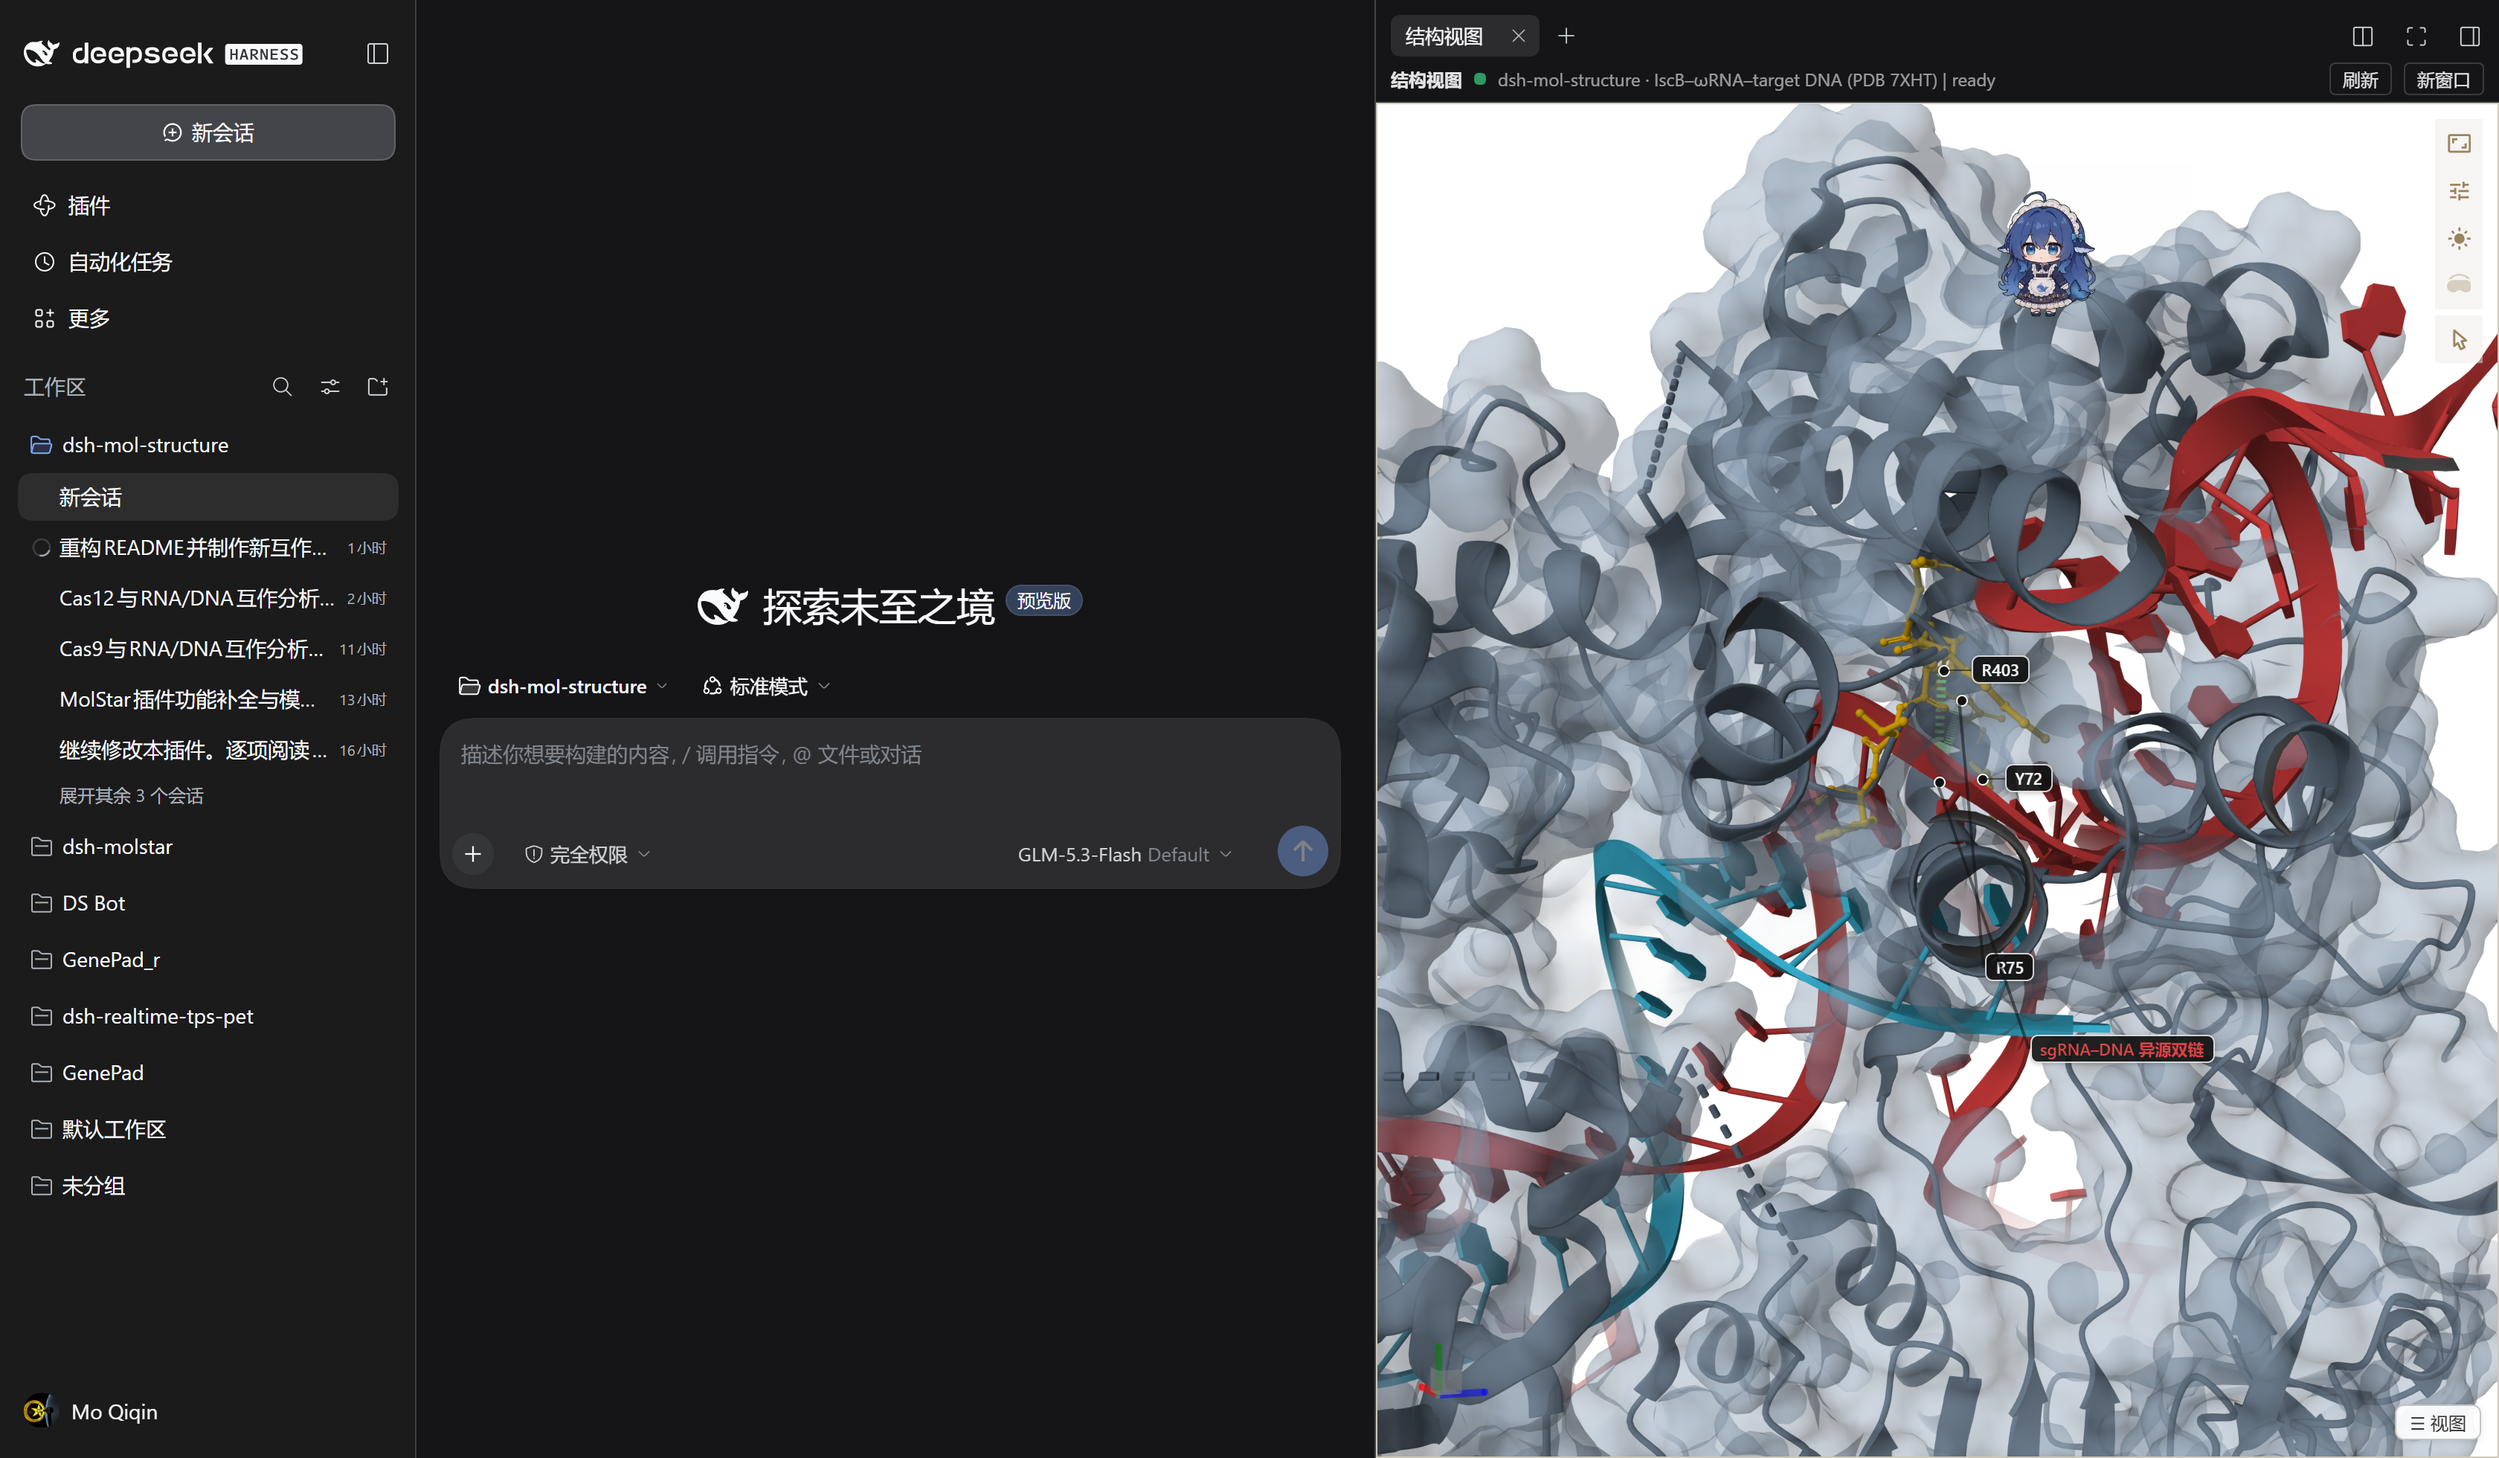
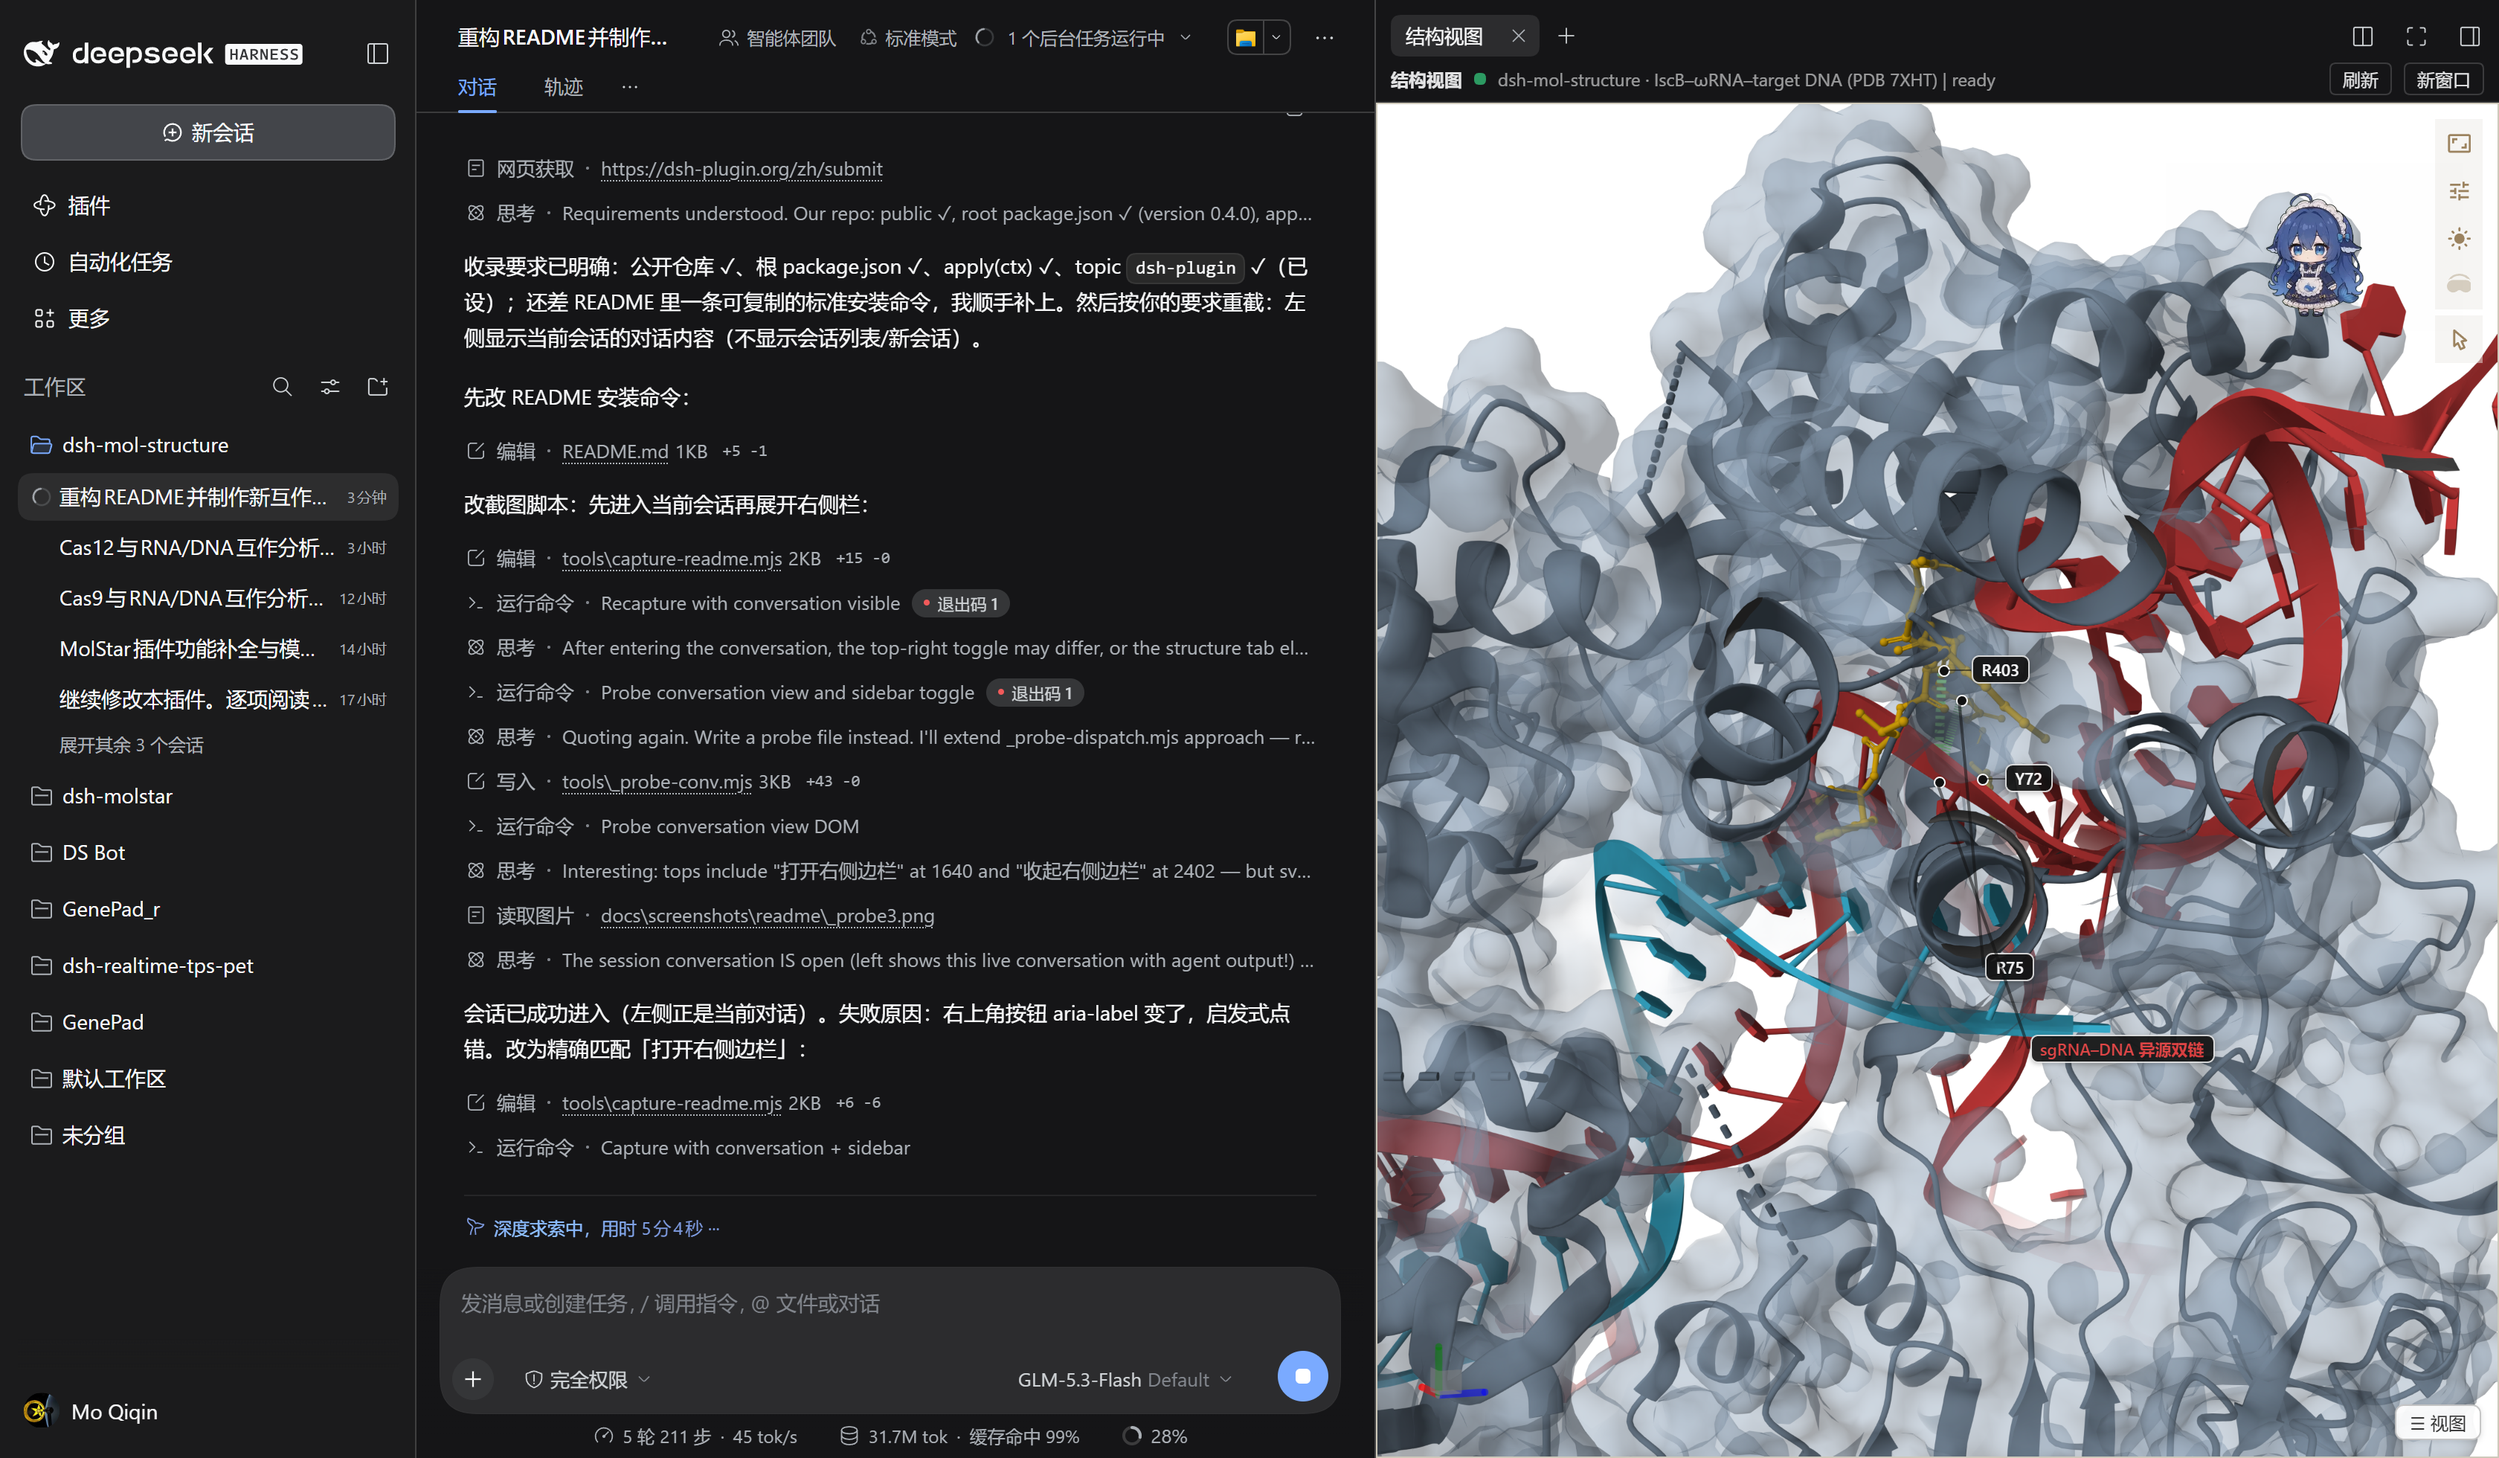
Add copyable source-install command; recapture README shots in a live session
- README: dsh plugin --profile web add github:Masterchiefm/dsh-mol-structure
- captures now open the current session so the left pane shows the agent
  conversation, right pane the structure view (no session list / new-chat)

diff --git a/README.md b/README.md
@@ -62,7 +62,11 @@ Do **not** add an entry to the profile `cordis.patch.yml` — the bundle's own
 2. 对 agent 说「加载 4oo8」→ `mol_load` 返回链清单并自动注册总览/界面视图；
 3. 在 3D 视图点击残基 → agent 用 `mol_status` 能读到该次点击。
 
-> 纯 web profile（`dsh web`）安装：`dsh plugin --profile web add C:\path\to\dsh-mol-structure`。
+> 纯 web profile（`dsh web`）源码安装（复制即可用）：
+>
+> ```bash
+> dsh plugin --profile web add github:Masterchiefm/dsh-mol-structure
+> ```
 
 ## 3. 示例案例：SaCas9–sgRNA–目标 DNA（PDB 4OO8）
 
